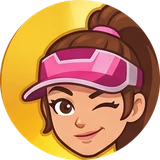
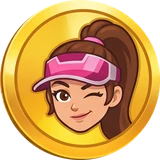
Kart Race: racer portraits are the whole coin token with its gold frame; game files re-checked on every load (no stale art after an update)
Claude-Session: https://claude.ai/code/session_01MC4zuKXFaCxVKkwqiM8kVR

diff --git a/public/games/kart-race/style.css b/public/games/kart-race/style.css
@@ -188,8 +188,8 @@
 .kr-picks-tv .bar i.minus { box-shadow: inset 0 0 0 2px var(--bad); }
 
 /* Racer portraits (round, with a gold rim). */
-.kr-racer img { display: block; width: 3rem; height: 3rem; margin: 0 auto 2px; border-radius: 50%; box-shadow: 0 0 0 2px #eab308; }
-.kr-stats .who img { width: 1.6em; height: 1.6em; border-radius: 50%; vertical-align: middle; box-shadow: 0 0 0 2px #eab308; }
-.kr-picks-tv .line img { width: 2.2em; height: 2.2em; border-radius: 50%; vertical-align: middle; box-shadow: 0 0 0 2px #eab308; }
-.kr-side .racer img { width: 1.6em; height: 1.6em; border-radius: 50%; vertical-align: middle; box-shadow: 0 0 0 2px #eab308; }
+.kr-racer img { display: block; width: 3rem; height: 3rem; margin: 0 auto 2px; border-radius: 50%; }
+.kr-stats .who img { width: 1.6em; height: 1.6em; border-radius: 50%; vertical-align: middle; }
+.kr-picks-tv .line img { width: 2.2em; height: 2.2em; border-radius: 50%; vertical-align: middle; }
+.kr-side .racer img { width: 1.6em; height: 1.6em; border-radius: 50%; vertical-align: middle; }
 .kr-side .coins { font-size: 1rem; font-weight: 800; color: #facc15; }

diff --git a/test/vendor.test.js b/test/vendor.test.js
@@ -47,3 +47,12 @@ test('the Party Board models are served (and kept small for the TV)', async () =
     assert.ok(buf.length < 400 * 1024, `${name}: ${buf.length} bytes`);
   }
 });
+
+test('game files are re-checked on every load, so an update shows at once (no stale art or code)', async () => {
+  for (const file of ['/games/kart-race/art/portraits/rex.webp', '/games/kart-race/host.js', '/shared/common.js']) {
+    const res = await fetch(url + file);
+    assert.equal(res.status, 200, file);
+    assert.match(res.headers.get('cache-control') || '', /no-cache/, file);
+    assert.ok(res.headers.get('etag'), `${file}: an ETag, so unchanged files come back as a quick 304`);
+  }
+});

diff --git a/server/app.js b/server/app.js
@@ -89,7 +89,9 @@ export function createApp({
     const src = fs.readFileSync(file, 'utf8').replace(/from 'three'/g, "from '/vendor/three/three.module.min.js'");
     res.type('text/javascript').set('Cache-Control', 'public, max-age=604800').send(src);
   });
-  app.use(express.static(PUBLIC_DIR, { extensions: ['html'] }));
+  // no-cache: browsers check for a newer copy each time (a quick 304 when unchanged), so an
+  // update's new art and code show straight away instead of an old cached copy.
+  app.use(express.static(PUBLIC_DIR, { extensions: ['html'], setHeaders: (res) => res.setHeader('Cache-Control', 'no-cache') }));
 
   registerSocketHandlers(io, rooms, { refreshJoin });
 

diff --git a/public/games/kart-race/art/README.md b/public/games/kart-race/art/README.md
@@ -3,7 +3,7 @@
 Placeholder art, cropped from the character and kart sheets; replace any file with a clean
 version of the same name and size and it shows up as is.
 
-- `portraits/<racer id>.webp`: square, round face (the screens add the gold rim), 160×160.
+- `portraits/<racer id>.webp`: the round coin token, gold frame included, 160×160.
 - `karts/<racer id>.webp`: the kart seen from above, **nose pointing up**, transparent
   background, wheels included, 256 px tall. Drawn 1.25 field units long on the track.
   Only racers listed in `SPRITES` in `../racers.js` use a picture; the rest are drawn as shapes.
